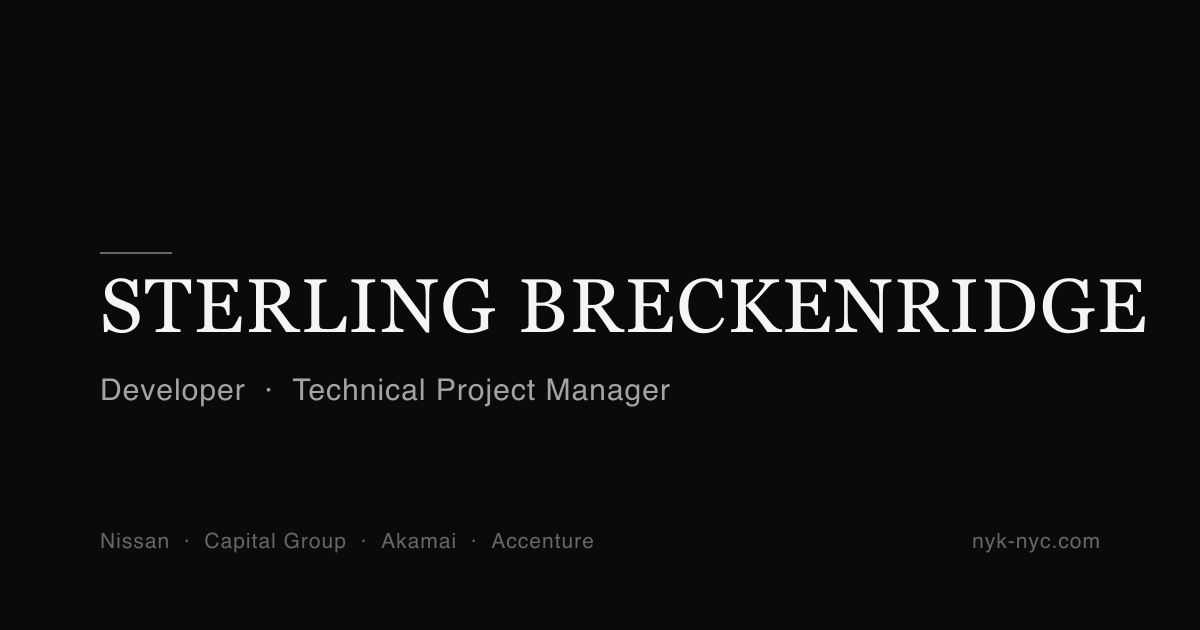
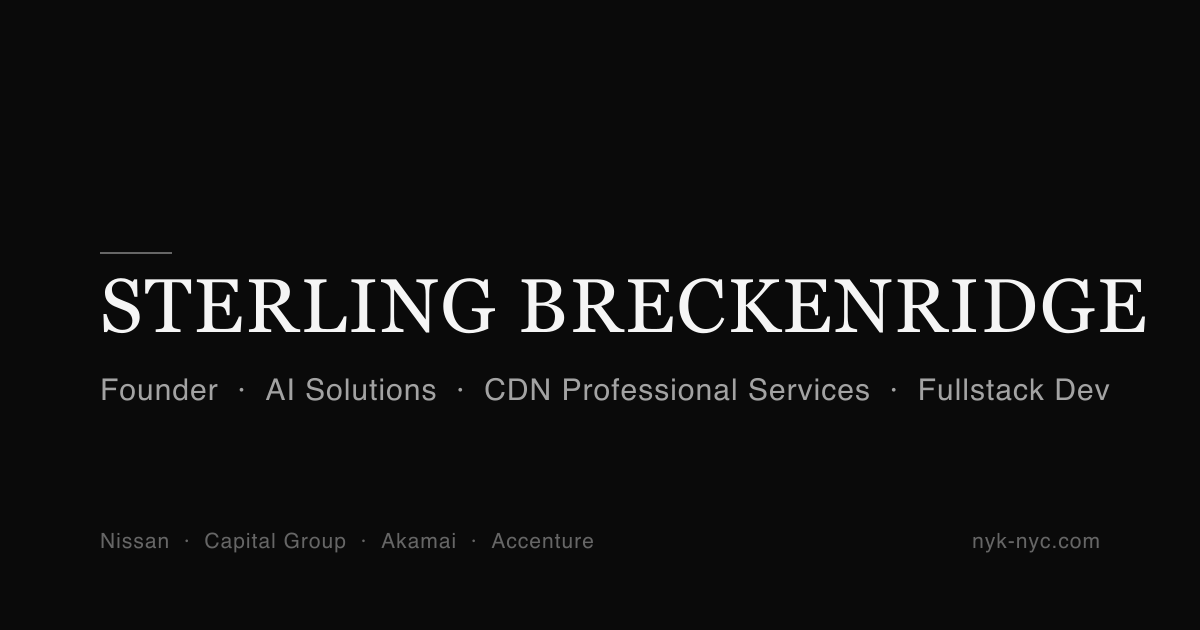
feat: update page title and link preview to new roles

Changed region(s): [[0.0925, 0.6032, 0.925, 0.6635]]

diff --git a/index.html b/index.html
@@ -8,7 +8,7 @@
     <meta name="apple-mobile-web-app-title" content="Sterling" />
     <link rel="manifest" href="/site.webmanifest" />
     <meta name="viewport" content="width=device-width, initial-scale=1.0" />
-    <title>Sterling Portfolio</title>
+    <title>Sterling Breckenridge — Founder, AI Solutions, CDN Professional Services, Fullstack Dev</title>
     <meta
       name="description"
       content="Sterling Breckenridge — developer and technical project manager with 15+ years shipping web experiences for brands like Nissan, Capital Group, Akamai, and Accenture."
@@ -19,7 +19,7 @@
     <meta property="og:type" content="website" />
     <meta property="og:url" content="https://www.nyk-nyc.com/" />
     <meta property="og:site_name" content="Sterling Breckenridge" />
-    <meta property="og:title" content="Sterling Breckenridge — Developer & Technical Project Manager" />
+    <meta property="og:title" content="Sterling Breckenridge — Founder, AI Solutions, CDN Professional Services, Fullstack Dev" />
     <meta
       property="og:description"
       content="Developer and technical project manager with 15+ years shipping web experiences for brands like Nissan, Capital Group, Akamai, and Accenture."
@@ -27,11 +27,11 @@
     <meta property="og:image" content="https://www.nyk-nyc.com/og-image.png" />
     <meta property="og:image:width" content="1200" />
     <meta property="og:image:height" content="630" />
-    <meta property="og:image:alt" content="Sterling Breckenridge — Developer & Technical Project Manager" />
+    <meta property="og:image:alt" content="Sterling Breckenridge — Founder, AI Solutions, CDN Professional Services, Fullstack Dev" />
 
     <!-- Twitter/X card (fallback for other platforms) -->
     <meta name="twitter:card" content="summary_large_image" />
-    <meta name="twitter:title" content="Sterling Breckenridge — Developer & Technical Project Manager" />
+    <meta name="twitter:title" content="Sterling Breckenridge — Founder, AI Solutions, CDN Professional Services, Fullstack Dev" />
     <meta
       name="twitter:description"
       content="Developer and technical project manager with 15+ years shipping web experiences for brands like Nissan, Capital Group, Akamai, and Accenture."
